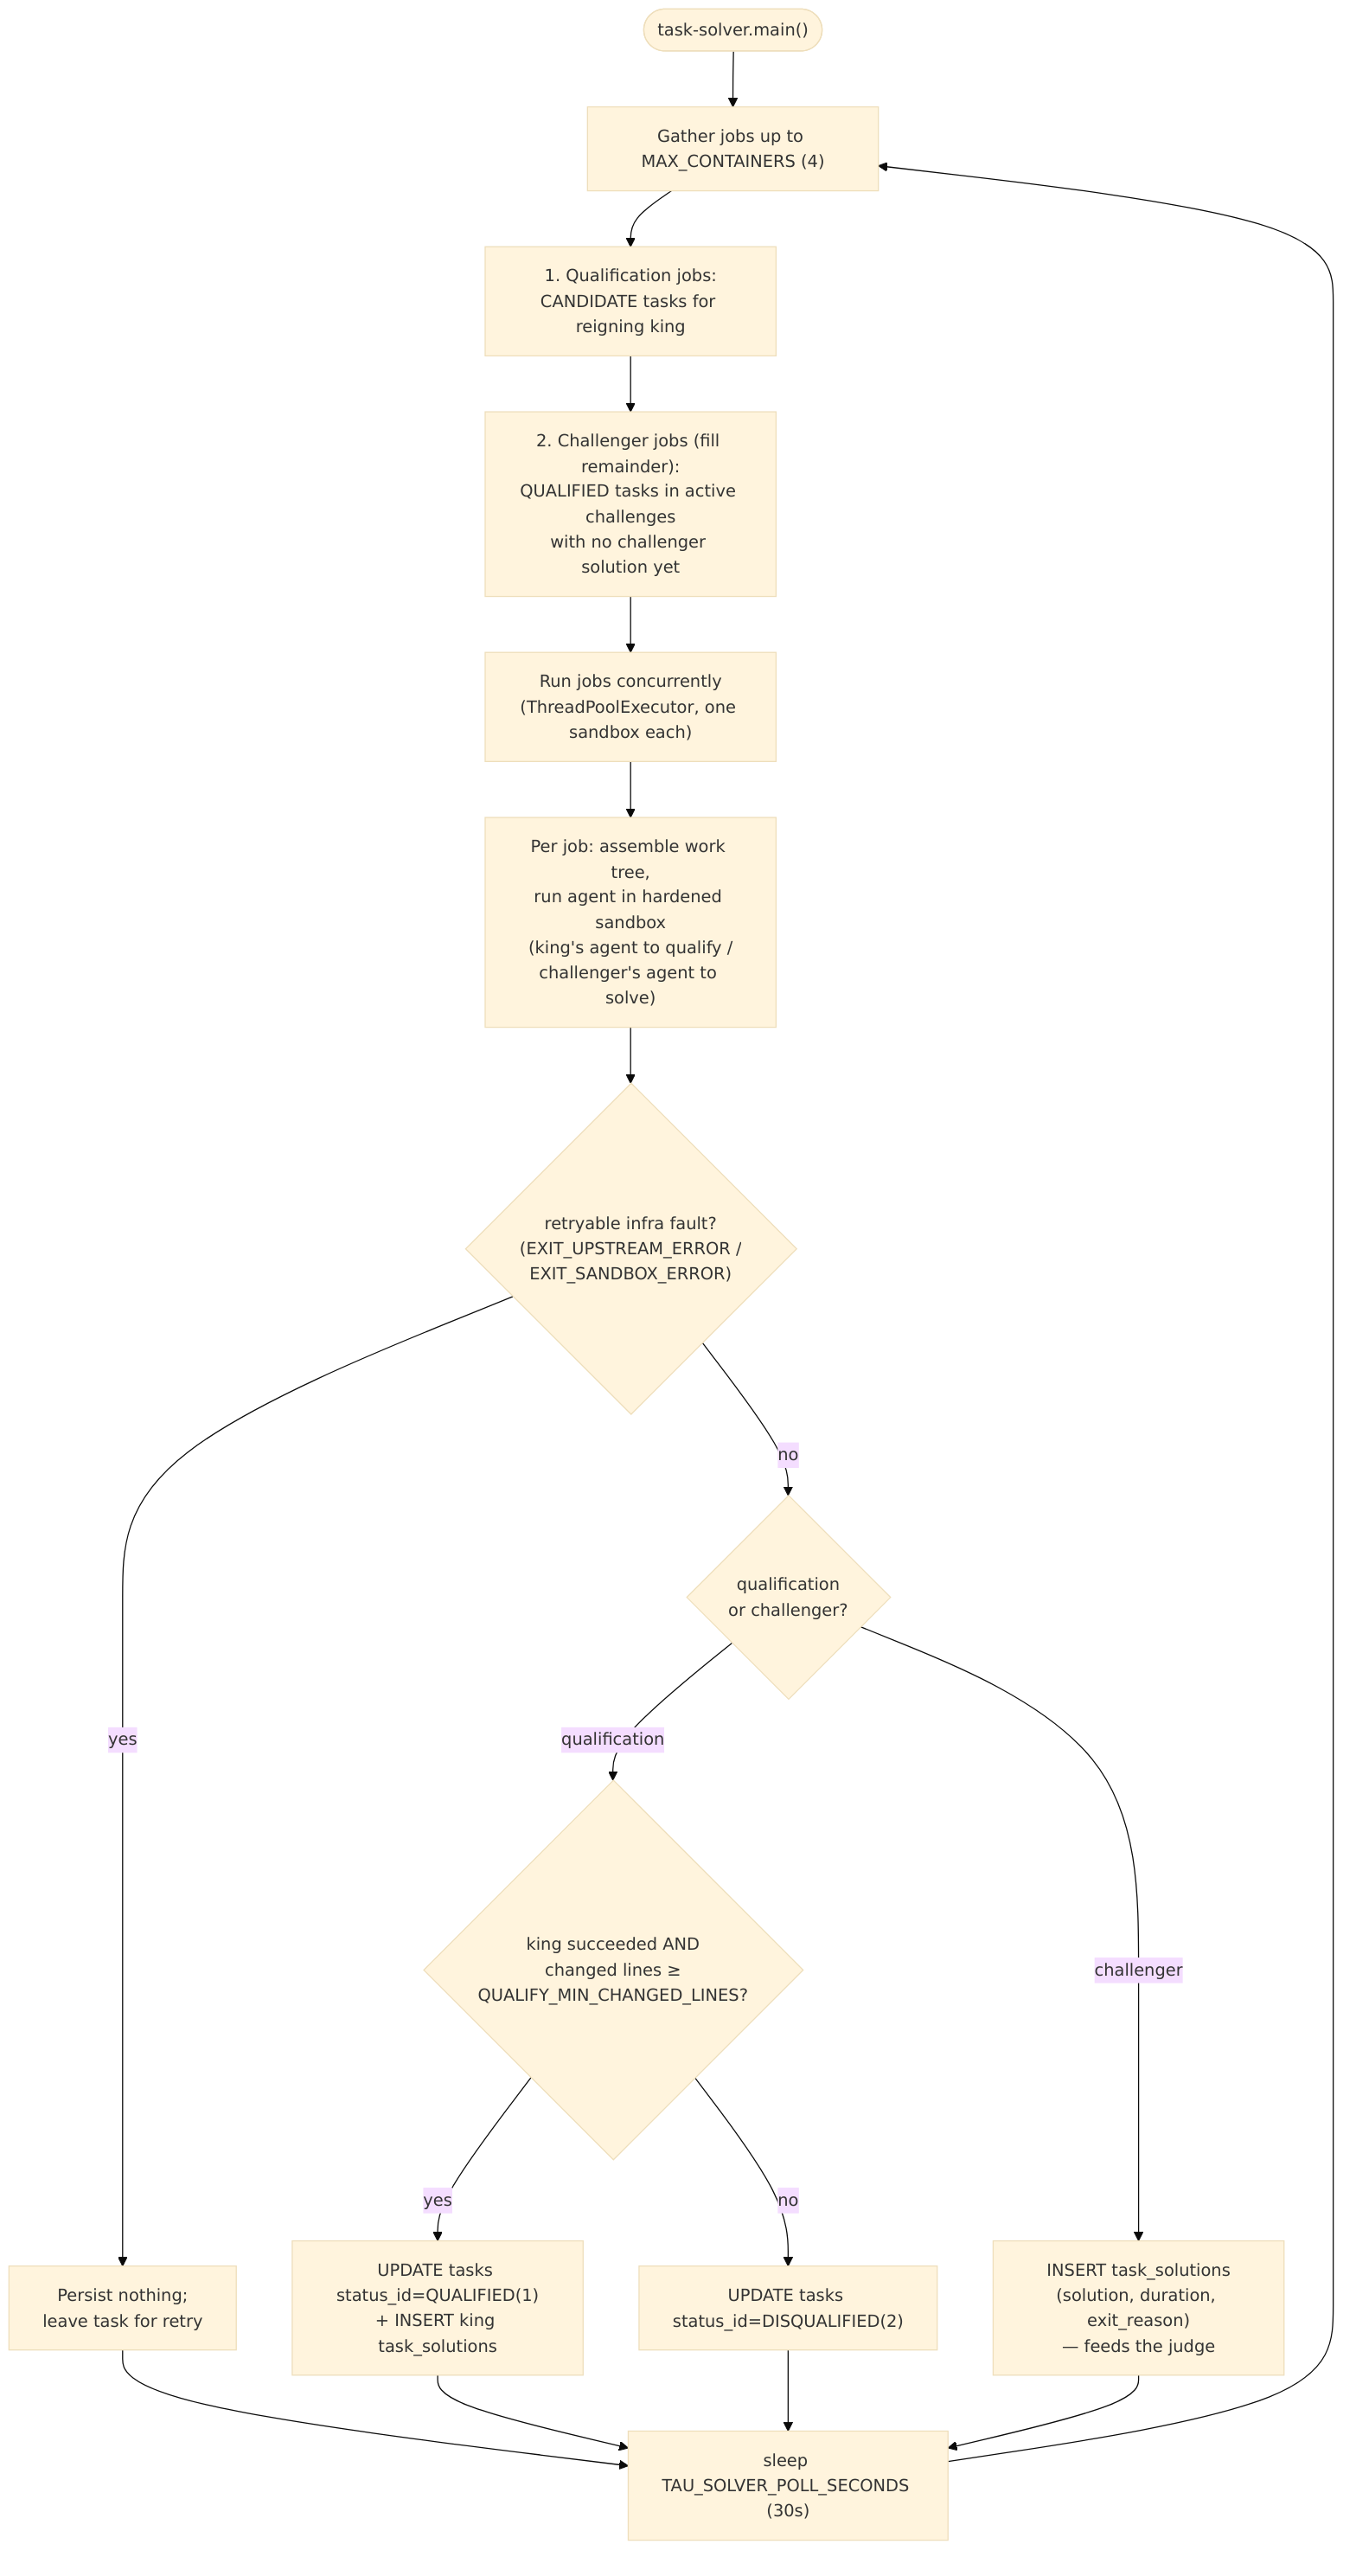
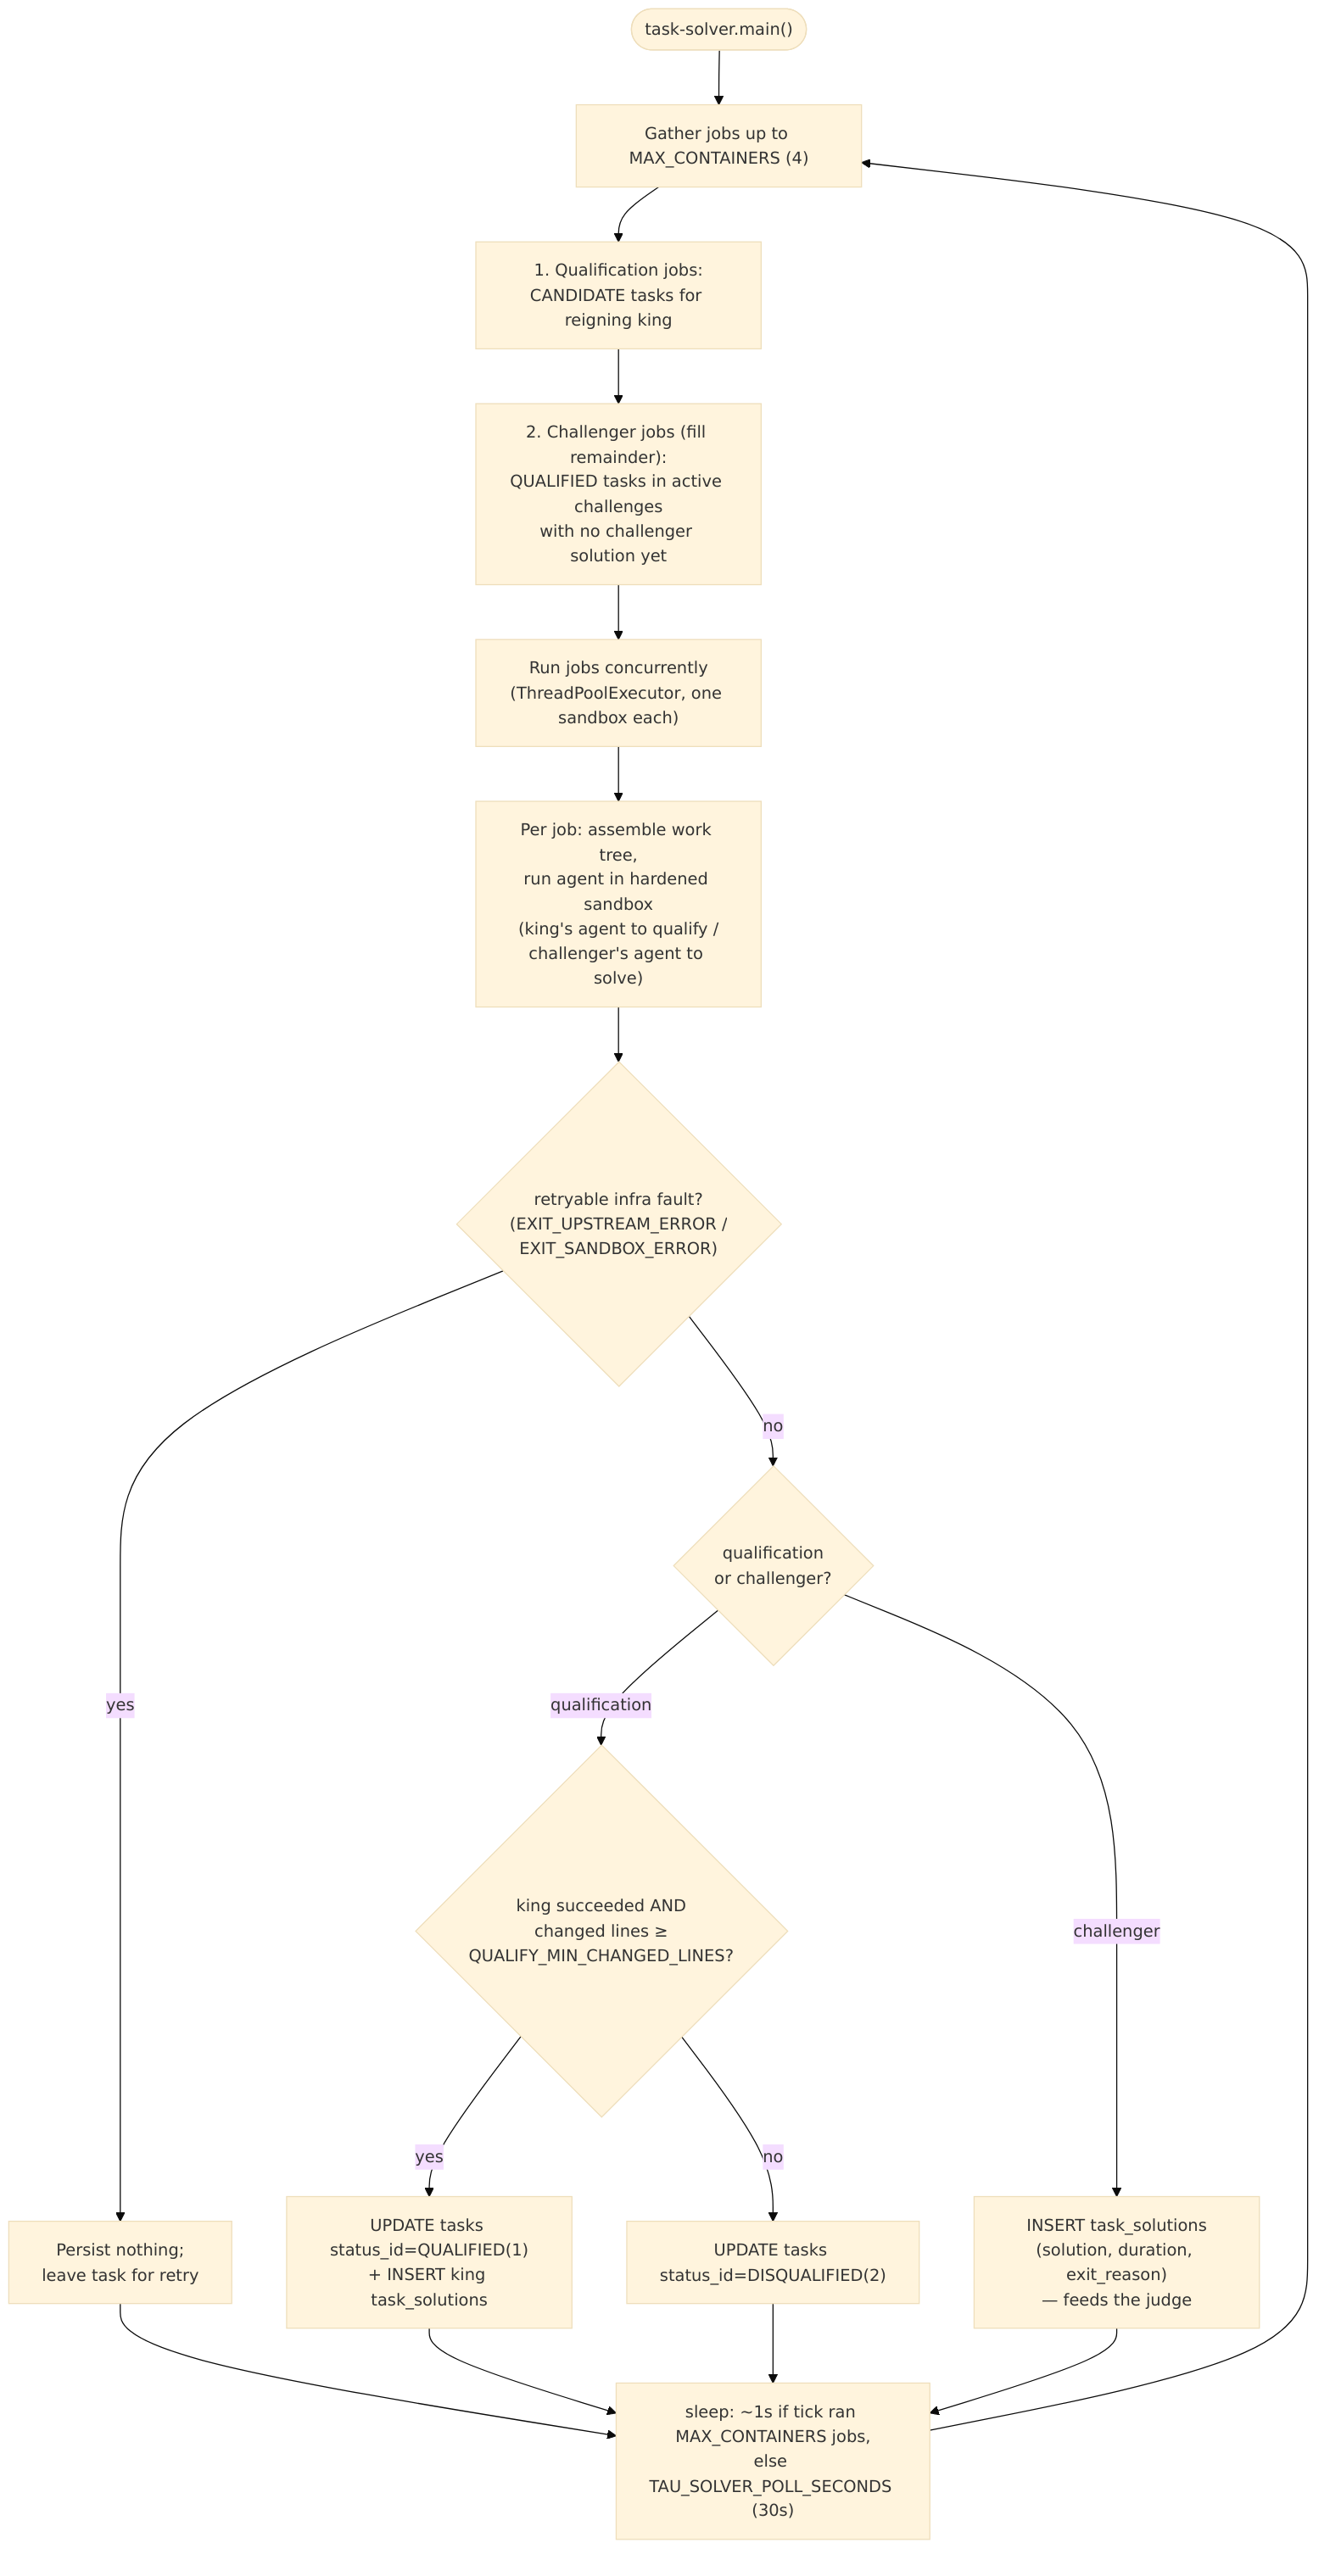
Re-poll quickly after a saturated solver tick so backlog drains
A tick that launches MAX_CONTAINERS jobs likely leaves backlog behind;
sleep a hardcoded BACKLOG_POLL_SECONDS (1s) before the next tick instead
of the full TAU_SOLVER_POLL_SECONDS (30s). Idle and partial ticks — and
crashed ticks — keep the 30s poll. Update the README worker table, §7.3,
.env.example, and the task-solver loop diagram to match.

Minimal rework of #31 by @user, who identified the backlog drain
problem and the fix.

diff --git a/tests/test_solver_loop.py b/tests/test_solver_loop.py
@@ -305,3 +305,36 @@ def test_report_failure_unrecognized_is_generic(monkeypatch) -> None:
 def test_report_failure_noop_on_completion(monkeypatch) -> None:
     fake = _report(monkeypatch, _res(EXIT_COMPLETED))
     assert fake.failures == []
+
+
+def _run_loop_and_capture_waits(monkeypatch, *, ran: int, ticks: int) -> list[float]:
+    """Drive ``run`` with a stubbed ``_tick`` returning *ran*; record sleep lengths."""
+    waits: list[float] = []
+    stop = threading.Event()
+
+    def fake_wait(seconds: float) -> bool:
+        waits.append(seconds)
+        if len(waits) >= ticks:
+            stop.set()
+        return stop.is_set()
+
+    monkeypatch.setattr(loop_mod, "_tick", lambda **_kw: ran)
+    stop.wait = fake_wait  # type: ignore[method-assign]
+    loop_mod.run(
+        db=object(),
+        client=None,
+        config=SimpleNamespace(max_containers=4, poll_seconds=30.0),
+        image_tag="img",
+        stop=stop,
+    )
+    return waits
+
+
+def test_run_uses_backlog_poll_when_tick_saturates(monkeypatch) -> None:
+    waits = _run_loop_and_capture_waits(monkeypatch, ran=4, ticks=2)
+    assert waits == [loop_mod.BACKLOG_POLL_SECONDS, loop_mod.BACKLOG_POLL_SECONDS]
+
+
+def test_run_uses_idle_poll_when_tick_is_partial_or_idle(monkeypatch) -> None:
+    assert _run_loop_and_capture_waits(monkeypatch, ran=0, ticks=1) == [30.0]
+    assert _run_loop_and_capture_waits(monkeypatch, ran=3, ticks=1) == [30.0]

diff --git a/src/tau/workers/task_solver/loop.py b/src/tau/workers/task_solver/loop.py
@@ -55,6 +55,10 @@ log = logging.getLogger(__name__)
 # Entry file every submission bundle must expose (the validator agent contract).
 AGENT_ENTRYPOINT = "agent.py"
 
+# Sleep after a tick that filled ``max_containers`` (backlog likely remains), so a
+# solve backlog drains between batches without waiting the full ``poll_seconds``.
+BACKLOG_POLL_SECONDS = 1.0
+
 # Miner-unrelated infrastructure faults: the LLM upstream (unreachable / timeout / out of
 # funds / rate limit / provider 5xx) or the sandbox/docker layer. A solve that ends this
 # way persists nothing and is retried on a later tick. Everything else — including a bad
@@ -137,13 +141,18 @@ def run(
     image_tag: str,
     stop: threading.Event,
 ) -> None:
-    """Run ticks until *stop* is set, sleeping ``poll_seconds`` between them."""
+    """Run ticks until *stop* is set: ``poll_seconds`` between idle/partial ticks,
+    ``BACKLOG_POLL_SECONDS`` after a saturated one."""
     while not stop.is_set():
+        ran = 0
         try:
-            _tick(db=db, client=client, config=config, image_tag=image_tag, stop=stop)
+            ran = _tick(db=db, client=client, config=config, image_tag=image_tag, stop=stop)
         except Exception:  # noqa: BLE001 — one bad tick must not kill the worker
             log.exception("solver tick failed")
-        stop.wait(config.poll_seconds)
+        # A saturated tick means backlog likely remains: re-poll almost
+        # immediately instead of paying the idle interval between batches.
+        saturated = ran >= config.max_containers
+        stop.wait(BACKLOG_POLL_SECONDS if saturated else config.poll_seconds)
 
 
 def _tick(

diff --git a/README.md b/README.md
@@ -142,7 +142,7 @@ they read and write.
 |--------|------|-------|--------|----------------|
 | **chain-watcher** | Sync subnet membership from the Bittensor chain | chain metagraph, `registrations` | `registrations` | 6s |
 | **task-generator** | Mine GitHub commits → LLM task descriptions | `kings`, `tasks` (counts) | `tasks` (CANDIDATE), `task_generation_failures` | 30s |
-| **task-solver** | Run king/challenger agents in sandboxes | `kings`, `tasks`, `challenges`, `duel_task_solutions` | `tasks` (QUALIFIED/DISQUALIFIED), `duel_task_solutions` | 30s |
+| **task-solver** | Run king/challenger agents in sandboxes | `kings`, `tasks`, `challenges`, `duel_task_solutions` | `tasks` (QUALIFIED/DISQUALIFIED), `duel_task_solutions` | 30s idle, ~1s on backlog |
 | **judge** | Blinded pairwise LLM comparison | `tasks`, `kings`, `challenges`, `duel_task_solutions`, `judgements` | `judgements` | 10s |
 | **duel-resolver** | Resolve duels, crown kings (**singleton**) | `kings`, `submissions`, `registrations`, `tasks`, `judgements`, `challenges` | `challenges`, `duel_resolutions`, `kings` | 5s |
 
@@ -248,11 +248,11 @@ up to `MAX_CONTAINERS` sandboxes in parallel:
 Active duel solves are prioritized; qualification jobs fill remaining capacity. See
 [§8](#8-agent-execution-environment-sandboxing) for how the sandbox works.
 `MAX_CONTAINERS` is both the per-tick batch size and the maximum number of
-concurrent sandboxes. After each tick the worker waits `TAU_SOLVER_POLL_SECONDS`
-before polling for the next batch, so a backlog larger than `MAX_CONTAINERS`
-pays that wait between batches. The deployment example uses
-`MAX_CONTAINERS=50`, so 100 ready solves take 2 ticks, with one poll wait
-between those batches.
+concurrent sandboxes. After an idle or partial tick the worker waits
+`TAU_SOLVER_POLL_SECONDS` before polling again; after a saturated tick
+(`MAX_CONTAINERS` jobs launched, so backlog likely remains) it re-polls after
+~1s. The deployment example uses `MAX_CONTAINERS=50`, so 100 ready solves take
+2 ticks back to back.
 
 | Loop | Database |
 |------|----------|
@@ -604,7 +604,7 @@ authoritative, commented list). Grouped by concern:
 |-----|---------|--------|
 | `SOLVER_MODEL` | required | Model the proxy forces every agent request onto. Set it in `.env`. |
 | `MAX_CONTAINERS` | `4` code fallback; `50` in `.env.example` | Max concurrent sandboxes per tick, and therefore the per-tick batch size. Size this to host and upstream capacity. |
-| `TAU_SOLVER_POLL_SECONDS` | `30` | Sleep between solver ticks; if backlog remains, this wait repeats between batches. |
+| `TAU_SOLVER_POLL_SECONDS` | `30` | Sleep after an idle or partial tick; a saturated tick re-polls after ~1s to drain backlog. |
 | `TAU_SOLVER_QUALIFY_MIN_CHANGED_LINES` | `1` | Min diff lines the king must change to QUALIFY a task. |
 | `TAU_SOLVER_REQUIRE_FULL_POOL_FOR_DUELS` | `false` code fallback; `true` in `.env.example` | Wait until the active pool has target QUALIFIED tasks before scheduling duel solves. |
 | `TAU_SUBMISSIONS_DIR` | `submissions` | Host dir of extracted submissions (mounted read-only, same path). |